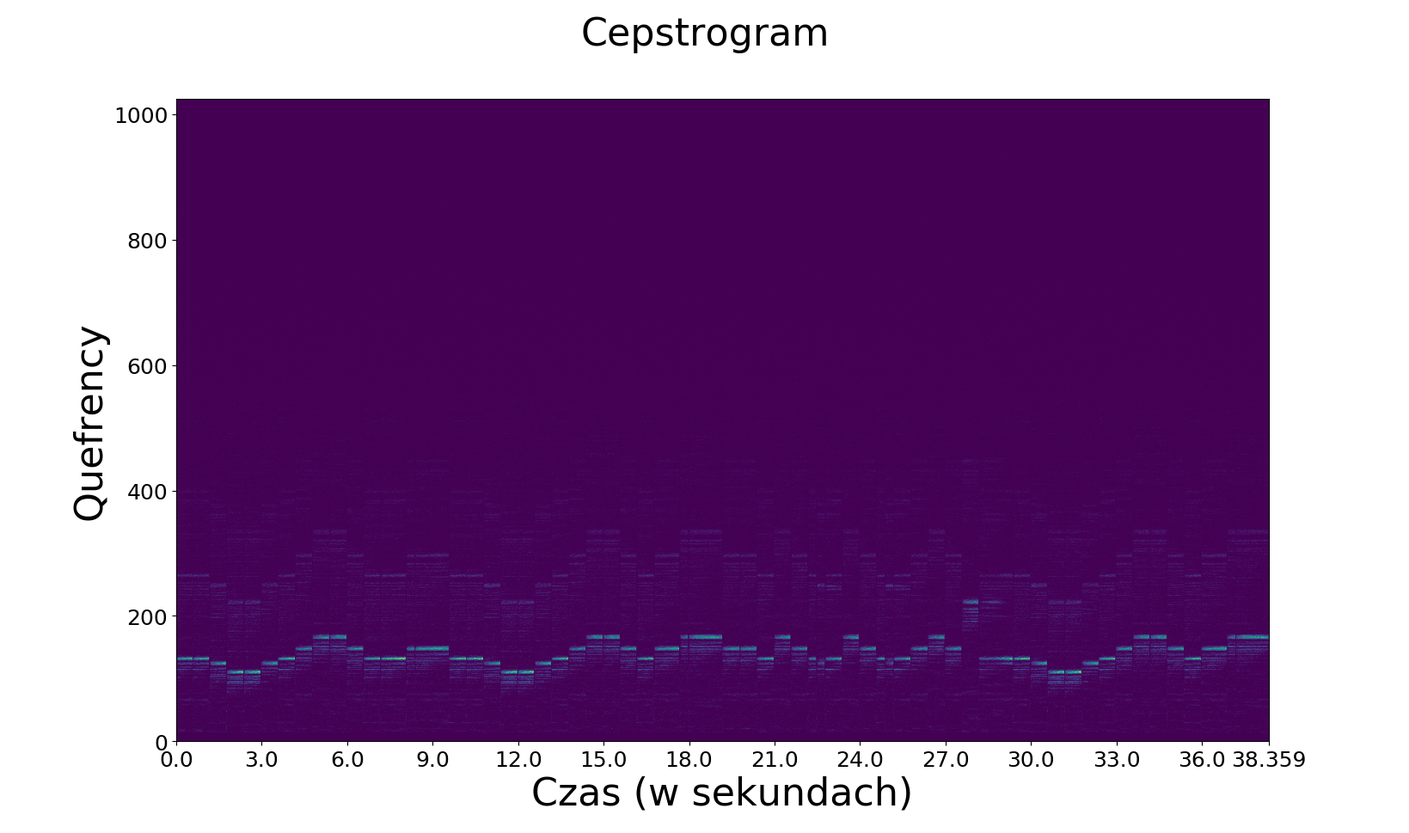
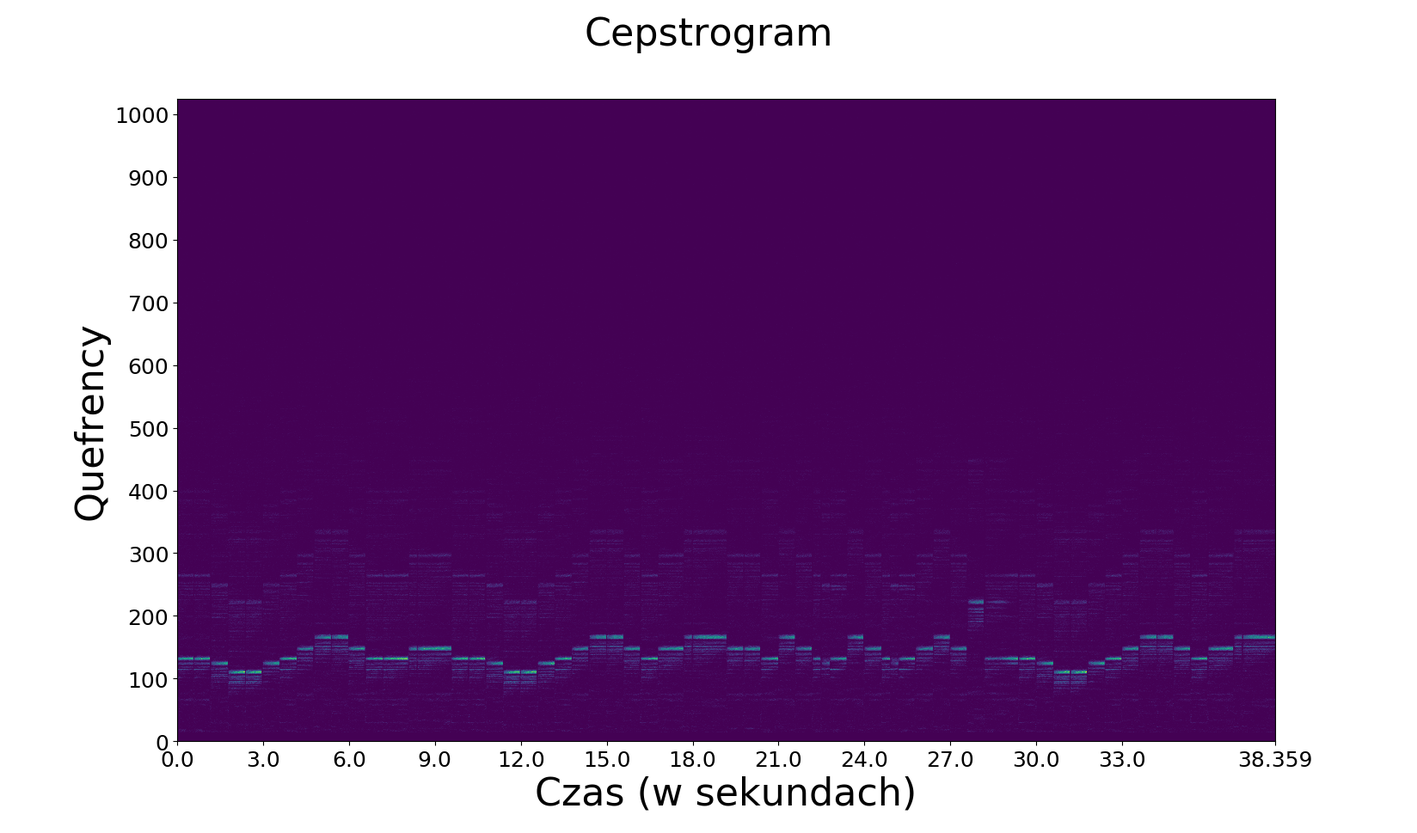
Thesis cd + wyslana wiadomosc

diff --git a/Thesis/Magister_Thesis.tex b/Thesis/Magister_Thesis.tex
@@ -181,7 +181,7 @@ Najnowsze dokonania w dziedzinie automatycznej transkrypcji muzycznej są jednak
 
 Bez automatyzacji procesu, transkrypcja wykonywana manualnie zakładała profesjonalną wiedzę słuchacza, który iteracyjnie odsłuchując dany utwór ustala grane instrumenty wraz z częstotliwością fundamentalną lub akordem, która jest na nich grany. Wymusza to osobie transkrybującej wyróżnienie poszczególnych granych dźwięków, wyodrębniając jego długość, wysokość i korelacje do pozostałych granych dźwięków. Ludzkie ucho postrzega dźwięk relatywnie, co powoduje, że dużo łatwiej jest porównywać dźwięki niż je analizować w odizolowaniu, toteż referencyjne dźwięki, jak na przykład skala zagrana na pianinie, są często wykorzystywane przy tradycyjnym przebiegu procesu transkrypcji. W rezultacie zadanie to jest skomplikowane i wymaga dużego nakładu czasowego nawet dla profesjonalistów z doświadczeniem w dziedzinie muzykologii.
 
-W tym rozdziale przedstawię wciąż nierozwiązany problem automatycznej transkrypcji muzycznej, nakreślając najbardziej problematyczne rejony w oparciu o przykłady już istniejących rozwiązań.  Celem tych rozważań jest przybliżenie ogólnej koncepcji transkrypcji muzycznej, teorii na jakiej się opierają, \todo[inline]{Move somewhere}oraz próba zoptymalizowania części z nich poprzez zrównoleglenie obliczeń wykorzystując kartę graficzną.
+W tym rozdziale przedstawiony jest wciąż nierozwiązany problem automatycznej transkrypcji muzycznej, nakreślając najbardziej problematyczne rejony w oparciu o przykłady już istniejących rozwiązań.  Celem tych rozważań było przybliżenie ogólnej koncepcji transkrypcji muzycznej, teorii na jakiej się opierają, \todo[inline]{Move somewhere}oraz próba zoptymalizowania części z nich poprzez zrównoleglenie obliczeń wykorzystując kartę graficzną.
 
 \subsection{Jak "działa" muzyka}\label{sec:JakDzialaMuzyka}
 Przed dalszymi rozważaniami istotne jest zdefiniowanie terminologii związanej z muzyką jak i samej muzyki. Muzyka, równoznaczne z utworem muzycznym, jest uporządkowanym zbiory dźwięków o odpowiednich wysokościach i głośnościach z zachowaniem odpowiedniego rytmu. Wysokości tych dźwięków są proporcjonalne do częstotliwości wibracji, które zostały wytworzone przez dany instrument lub głos ludzki. Głośność określana jest przy pomocy amplitudy zadanego sygnału akustycznego. Starając się rozłożyć skomplikowaną strukturę utworów muzycznych na rozdzielne części, można wyróżnić cztery rozdzielne składowe, których zbadanie i zinterpretowanie jest przedmiotem algorytmów transkrypcji muzycznej. Są to:
@@ -253,7 +253,7 @@ Istnieją oczywiście instrumenty, które generują dźwięki o dowolnych F0, a 
 
 Ciekawą własnością niemalże wszystkich kultur muzycznych jest podobieństwo do siebie odpowiednich nut w oktawach. Nuty A2, A3 i A4 dla przykładu mają taką samą rolę w kontekście harmoniczności. Brzmią one bardzo podobnie do siebie, jedynie różnią się wysokością. Ze względu na tą cechę, opisany wyżej system redukuje liczbę wszystkich istniejących dźwięków do jedynie 12 klas dźwięków, po 1 na każdą z nut w oktawie. Korzystając ze wzoru ~\ref{eq:midi_freq} dla wielokrotności liczby 440 można uzyskać tabelkę z częstotliwościami dźwięków \textbf{A} w kolejnych oktawach, jak w tabeli \ref{tab:FqMidi}.
 
-\begin{table}[H]
+\begin{table}[ht]
   \begin{center}
     \begin{tabular}{ |c|c|c| } 
     \hline
@@ -325,7 +325,7 @@ Neuropsychologiczne badania, które były prowadzone w kontekście przetwarzania
 \subsubsection{Reprezentacja danych średniego poziomu}
 Koncepcja pojęcia \textit{Reprezentacja danych średniego poziomu} pozwala na utworzenie pewnego rodzaju pośrednika pomiędzy akustyczną reprezentacją dźwięku, a tą formalnie zapisaną. Sygnał muzyczny w czystej postaci jest mało informatywny, nie możemy z niego wyczytać chociażby poszczególnych nut utworu, tak jak jest to widoczne w zapisie nutowym. W książce \cite{Transcription:Zatorre:AuditoryCortex} autorzy sugerują, że celem użycia tego narzędzia jest stworzenie pośredniego stopnia abstrakcji, które będzie działało jak interfejs do analizy audio i do ułatwienia konstrukcji systemów transkrypcji.
 
-Najczęściej używaną reprezentacją danych na średnim poziomie przy analizie sygnału akustycznego jest szybka transformacja Fouriera (dokładniej opisana w sekcji \ref{sec:FFT}) sygnału w kolejnych oknach czasowych. W ogólności wszystkie funkcje pozwalające na przeniesienie sygnału z domeny czasowej na domenę częstotliwości są niezwykle istotne w analizie dźwięku. W tej pracy zostaną przedstawione algorytmy bazujące na tej właśnie reprezentacji danych (jak np. Autokorelacja czy metody operujące na cepstrum). \todo[inline]{reference sections}
+Najczęściej używaną reprezentacją danych na średnim poziomie przy analizie sygnału akustycznego jest szybka transformacja Fouriera (dokładniej opisana w sekcji \ref{sec:FFT}) sygnału w kolejnych oknach czasowych. W ogólności wszystkie funkcje pozwalające na przeniesienie sygnału z domeny czasowej na domenę częstotliwości są niezwykle istotne w analizie dźwięku. W tej pracy znajduje się opis algorytmów operujących na tej właśnie reprezentacji danych (analiza tej reprezentacji opisana jest w sekcji \ref{sec:f0:tfr}, algorytmy jak ACLOS opisany w sekcji \ref{sec:f0:aclos} czy cepstrum opisane w \ref{sec:f0:ceps} działają jedynie na widmie sygnału).
 
 W książce \cite{Transcription:Zatorre:AuditoryCortex} autorzy uważają, że powszechnym wyborem dla reprezentacji danych na średnim poziomie jest bazowanie na \textit{ścieżkach sinusoidalnych}. W tym przypadku sygnał akustyczny jest przedstawiony jako suma sinusoid o zmiennych w czasie częstotliwościach i amplitudach. Korzyścią, jaka płynie z tej reprezentacji jest łatwe przedstawienie instrumentów tonalnych. Problem z tym podejściem zaczyna się przy wielotonalnych sygnałach, gdzie dźwięki nakładają się na siebie w domenie częstotliwości i czasu. 
 
@@ -484,7 +484,7 @@ Przy modelowaniu systemu transkrypcji często trzeba podjąć trudną decyzję, 
 \subsection{Estymacja składowej fundamentalnej F0}\label{sec:f0}
 Ten rozdział skupia się na opisaniu metod estymacji składowej fundamentalnej w sygnale akustycznym. Jest to jeden z kroków wymaganych do pełnej transkrypcji utworu muzycznego, a przez wielu badających ten teren nauki uważany za najważniejszy  \cite[2-4]{Transcription:Klapuri:ChallengesAndFuture}. Wysokość dźwięku jest niezwykle istotną informacją z punktu widzenia muzyka, a sposób zagrania determinowany jest właśnie przez F0. Nawiązując do informacji opisanych w rozdziale \ref{sec:JakDzialaMuzyka} aby poprawnie wykryć F0 należy mieć na uwadzę bardzo dużo czynników. 
 
-Dalsze rozważania będą przebiegać z założeniem, że przetwarzane sygnały są z podzbioru muzyki o standardach kompozycji zachodniej, lecz bez wyszczególnionego gatunku muzycznego. Nie będziemy również skupiali się na wykryciu tak zwanych dźwięków o niezależnej wysokości, do których zaliczają się elementy perkusyjne. Ważnym założeniem, które będę stosować w tym rozdziale, jest analiza jedynie sygnałów monofonicznych. W odróżnieniu do krzywych reprezentujących muzykę polifoniczną, w analizowanych utworach będzie grany tylko jeden dźwięk na pojedyńczym instrumencie, bez równoległych dźwięków. Algorytmy analizujące muzykę wielotonową są opisane w rozdziale \ref{sec:MultiPitch}. Jest to bardzo duże ułatwienie, ponieważ konkurujące sygnały dźwiękowe nakładają się na siebie, zmuszając algorytm analizujący do rozróżnienia i odseparowania ich przed faktyczną analizą F0. 
+Dalsze rozważania będą przebiegać z założeniem, że przetwarzane sygnały są z podzbioru muzyki o standardach kompozycji zachodniej, lecz bez wyszczególnionego gatunku muzycznego. Nie będziemy również skupiali się na wykryciu tak zwanych dźwięków o niezależnej wysokości, do których zaliczają się elementy perkusyjne. Ważnym założeniem, które jest stosowane w tym rozdziale, jest analiza jedynie sygnałów monofonicznych. W odróżnieniu do krzywych reprezentujących muzykę polifoniczną, w analizowanych utworach będzie grany tylko jeden dźwięk na pojedyńczym instrumencie, bez równoległych dźwięków. Algorytmy analizujące muzykę wielotonową są opisane w rozdziale \ref{sec:MultiPitch}. Jest to bardzo duże ułatwienie, ponieważ konkurujące sygnały dźwiękowe nakładają się na siebie, zmuszając algorytm analizujący do rozróżnienia i odseparowania ich przed faktyczną analizą F0. 
 
 \subsubsection{Funkcja Autokorelacji}\label{sec:f0:ac}
 Domena czasu jest najbardziej naturalną postacią sygnału dźwiękowego, ponieważ w takiej właśnie postaci jest odbierane przez ludzkie ucho - jako ciśnienie akustyczne zmienne w czasie. Wiele z pierwszych badań jakie prowadzono w kontekście transkrypcji sygnału fonicznego wykorzystywało tą postać sygnału, między innymi w \cite{Transcription:Gold:ComputerProgramForPitchExtraction}. Algorytm ten polegał na znajdywaniu wzorców w krzywej sygnału. Regularności które powtarzały się okresowo co $T$ były analizowane jako kandydaci do bycia F0. Jak analiza czystego binarnego sygnału i wyliczenia na nim nie są częstą praktyką, tak podejście do znajdywania wzorców i regularności jest obecna w wielu nowoczesnych algorytmach. Najbardziej dosłowne odwzorowanie tej idei można znaleźć w metodologiach opartych na korelacji w celu znalezienia wysokości dźwięku.
@@ -622,7 +622,7 @@ gdzie  $X(f)$ oznacza TF. Zgodnie ze wzorem \ref{eq:ceps:continous} filtrowanie 
   \begin{subfigure}{.49\textwidth}
     \centering
     \includegraphics[width=1.\linewidth]{images/Cepstrum/cepstrogram_cropped.png}
-    \caption{Cepstrum}
+    \caption{Cepstrogram}
   \end{subfigure}
   \begin{subfigure}{.5\textwidth}
     \centering
@@ -638,15 +638,17 @@ Postać cepstralną sygnału akustycznego można bezpośrednio wykorzystać do z
 \subsubsection{ACLOS}\label{sec:f0:aclos}
 Badanie cykliczności spektrum, do którego jednym z narzędzi jest cepstrum opisane w \ref{sec:f0:ceps}, można wykorzystać również narzędzia autokorelacji. Omówiona wcześniej metoda badająca cykliczność na cyfrowej fali akustycznej poprzez wyliczanie autokorelacji (\ref{sec:f0:ac}) użyta w domenie częstotliwości została opisana w 1996 roku w \cite{Transcription:Kunieda:Aclos} pod nazwą \textbf{ACLOS}. Oba te algorytmy polegają na zasadzie cykliczności fal akustycznych i harmonicznych F0, próbując wykryć dokłądny odstęp pomiędzy cyklami.
 
-Nazwa algorytmu ACLOS jest skrótem od \textit{AutoCorrelation of LOg Spectrum}, co oznacza autokorelację na logarytmie widma. Motywacją do stworzenia ACLOS było odkrycie takiego algorytmu, który wykorzysta zalety cepstrum i jednocześnie będzie bardziej odporne na szumy w badanym sygnale. Dodatkowo, autorzy ACLOS przytaczają prace naukową \cite{Transcription:Lahat:SpectralAutocorrelationNoiseCorrupted}, która również wykorzystuje autokorelacje na widmie sygnału akustycznego, z ta różnicą, że nie stosuje się na nim logarytmowania, a proces autokorelacji determinowany jest procedurą decyzyjną w zależności od pików na poszczególnych pasmach sygnału, czo czyni ten algorytm dużo bardziej skomplikowany niż ACLOS.
-
-\begin{figure}[t]
+\begin{figure}[H]
   \begin{center}
     \includegraphics[scale=0.29]{images/ACLOS/ACLOS_flow.jpg}
     \caption{Schemat działania algorytmu ACLOS do wykrywania wysokości dźwięku. Schemat z \cite[233]{Transcription:Kunieda:Aclos}.}
     \label{fig:aclos:flow}
   \end{center}
 \end{figure}
+
+Nazwa algorytmu ACLOS jest skrótem od \textit{AutoCorrelation of LOg Spectrum}, co oznacza autokorelację na logarytmie widma. Motywacją do stworzenia ACLOS było odkrycie takiego algorytmu, który wykorzysta zalety cepstrum i jednocześnie będzie bardziej odporne na szumy w badanym sygnale. Dodatkowo, autorzy ACLOS przytaczają prace naukową \cite{Transcription:Lahat:SpectralAutocorrelationNoiseCorrupted}, która również wykorzystuje autokorelacje na widmie sygnału akustycznego, z ta różnicą, że nie stosuje się na nim logarytmowania, a proces autokorelacji determinowany jest procedurą decyzyjną w zależności od pików na poszczególnych pasmach sygnału, czo czyni ten algorytm dużo bardziej skomplikowany niż ACLOS.
+
+
 \begin{figure}[H]
   \begin{center}
     \includegraphics[scale=0.49]{images/ACLOS/data_lifter_cropped.png}
@@ -730,28 +732,98 @@ Funkcja autokorelacji w domenie czasu/mocy, jak opisana w sekcji \ref{sec:f0:ac}
 
 Przyglądając się z bliska pojedyńczemu wynikowi funkcji autokorelacji jak widać na rysunku \ref{fig:multi:ac:em} można zauważyć, że piki znajdują się w nieregularnych odstępach a sama wartość funkcji korelacji nie jest bliska maksymalnej wartości. Na omawianej ilustracji grany jest akord E-mol 3, czyli dokładnie dźwięki E3, G3 i B3, którym odpowiadają częstotliwości F0 odpowiednio 164.81, 196.00 i 246.94 Hz. Na badanym oknie korelacji najwyższym pik jest w miejscu o przesunięciu 266, czyli najsilniejsza hipotezą co do F0 byłaby częstotliwość 165,8 Hz (zgodnie ze wzorem \ref{eq:AC:hz} w badanym przypadku częstotliwość wyliczana jest poprzez $44100 / 266 \approx 165,8$), co jest wartością najbliższą do częstotliwości dźwięku E3. Najniższa nuta w akordzie nazywana jest bazową, i to ona jest najbardziej charakterystyczna dla ludzkiego ucha. Z racji tego, że ma ona najniższą częstotliwość, ma też najwyższą amplitudę (z reguły im wyższa częstotliwość tym niższa amplituda), co daje wyższą szanse na znalezienie tych nut w dźwięku przy wykorzystaniu funkcji autokorelacji w domenie czasu. Drugi pik pod względem rezultatu autokorelacji jest dla przesunięcia równego 534, co odpowiada częstotliwości równej 52,6 Hz. Ta częstotliwość nie jest częścią granego dźwięku, nie jest również żadna z jej wielokrotności.
 
-Algorytmy operujące na dziedzinie częstotliwości mają dużo większe powodzenie w wykrywaniu równoległych F0, jednak algorytmika stojąca za tymi metodami jest dużo bardziej skomplikowana niż w przypadku monofonicznych utworów ze względu na dużo bardziej skomplikowane widma. Spektrogram sygnałów polifonicznych nie jest tak wyraźnym wskaźnikiem jak był w przypadku monofonicznym. Częstotliwości harmonicznych mogą się na siebie nakładać, zniekształcając ich cykliczność jak i modulując wyraźnosć formantów.
-
 \begin{figure}[ht]
   \begin{center}
-    \includegraphics[scale=0.38]{images/Spectrogram/spectrogram_multi_2048_512.png}
-    \caption{Spektrogram nagrania Preludium op. 28 nr. 4 Fryderyka Chopina zagranym na pianinie w Em. Użyto okno Hanna o długości 2048 sampli z odstępami długości 512 sampli.}
+    \includegraphics[scale=0.38]{images/Spectrogram/spectrogram_multi_2048_512_cropped.png}
+    \caption{Spektrogram nagrania Preludium op. 28 nr. 4 Fryderyka Chopina zagranym na pianinie w Em. Użyto okno Hanna o długości 2048 sampli, marginesem zer o długości 2048 i z odstępami długości 512 sampli.}
     \label{fig:multi:spectrogram}
   \end{center}
 \end{figure}
 
-\begin{figure}[ht]
+Algorytmy operujące na dziedzinie częstotliwości mają dużo większe powodzenie w wykrywaniu równoległych F0, jednak algorytmika stojąca za tymi metodami jest dużo bardziej skomplikowana niż w przypadku monofonicznych utworów ze względu na dużo bardziej skomplikowane widma. Spektrogram sygnałów polifonicznych nie jest tak wyraźnym wskaźnikiem jak był w przypadku monofonicznym. Częstotliwości harmonicznych mogą się na siebie nakładać, zniekształcając ich cykliczność jak i modulując wyraźność formantów.
+
+
+Widma poszczególnych dźwięków nakładają się na siebie, wzmacniając pewne częstotliwości, a inne wytłumiając. Przykład takiego zjawiska można zaobserwować na rysunku \ref{fig:multi:spectra:partials}. Nagranie akordu Em3 nagranego na pianinie widać linią ciągłą, natomiast pojedyńczo nagrane dźwięki E3, G3 oraz B3 są przedstawione jako osobne krzywe. Widać na tym wykresie, że wynikowa krzywa Em żadko nakłada się dokłądnie z linią pojedyńczej nuty, a jest raczej nową strukturą z częścią cech wspólnych.
+
+\begin{figure}[H]
   \begin{center}
-    \includegraphics[scale=0.325]{images/Em/spectral_component_em3_partials_2048_512.png}
-    \caption{Spektrogram nagrania Preludium op. 28 nr. 4 Fryderyka Chopina zagranym na pianinie w Em. Użyto okno Hanna o długości 2048 sampli z odstępami długości 512 sampli.}
-    \label{fig:multi:spectrogram}
+    \includegraphics[scale=0.325]{images/Em/spectral_component_em3_partials_2048_512_cropped.png}
+    \caption{Spektralne komponenty nagrania akordu Em zagranego na pianinie oraz trzech poszczególnych nut zagranych na tym samym pianinie nagranych osobno. Użyto okna Hanna o długości 2048 sampli i marginesu zer długości 2048.}
+    \label{fig:multi:spectra:partials}
   \end{center}
 \end{figure}
 
+\begin{figure}[h]
+  \begin{center}
+    \includegraphics[scale=0.27]{images/Em/spectrogram_Em_2048_512_cropped.png}
+    \caption{Spektrogram nagrania akordu Em zagranego na pianinie. Użyto okna Hanna o długości 2048 sampli z marginesem zer długości 2048 i marginesu zer długości 2048.}
+    \label{fig:multi:em:spectrogram}
+  \end{center}
+\end{figure}
 
-\subsubsection{Harmoniczność}
+Metody cepstrum i ACLOS opisane w sekcjach \ref{sec:f0:ceps} i \ref{sec:f0:aclos} są nieefektywne z powodu nakładających się na siebie dźwięków w spektrum. Echo, które wykrywa cepstrum, jest pomieszane pomiędzy dźwiękami, co mocno komplikuje wnioskowanie z tej reprezentacji. ACLOS natomiast traci pewność wyniku z tych samych powodów co funkcja autokorelacji opisana wyżej w tej sekcji. Można zaobserwować na wykresach \ref{fig:multi:ceps:estimation} i \ref{fig:multi:aclos:estimation} że oba te algorytmy wykryły F0 w okolicach dźwięku G (ACLOS około 190 Hz, co jest najbliższe dźwiękowi G3 obecnemu w sygnale, a Cepstrum około 400, co jest wielokrotnością G3). Przyglądając się rozbitemu na poszczególne spektra wykresowi \ref{fig:multi:spectra:partials} można wywnioskować, że nuta ta ma najwięcej wspólnych harmonicznych z pozostałymi, więc właśnie ona wydaje się być najsilniejsza w widmie.
 
+\begin{figure}[h]
+  \begin{subfigure}{0.5\textwidth}
+    \includegraphics[width=1.\linewidth]{images/Em/cepstrogram_cropped.png}
+    \caption{Cepstrogram}
+  \end{subfigure}
+  \begin{subfigure}{0.49\textwidth}
+    \includegraphics[width=1.\linewidth]{images/Em/cepstra_estimation_cropped.png}
+    \caption{Estymacja F0}
+    \label{fig:multi:ceps:estimation}
+  \end{subfigure}
+  \caption{Wynik cepstrum na nagraniu akordu Em zagranym na pianinie. Użyto okno Hanna o długości 2048 sampli z marginesem zer długości 2048 i odstępami długości 2048 sampli.}
+  \label{fig:multi:ceps}
+\end{figure}
 
+\begin{figure}[h]
+  \begin{subfigure}{0.5\textwidth}
+    \includegraphics[width=1.\linewidth]{images/Em/Aclos_corelogram_cropped.png}
+    \caption{Korelogram}
+  \end{subfigure}
+  \begin{subfigure}{0.49\textwidth}
+    \includegraphics[width=1.\linewidth]{images/Em/Aclos_estymacja_cropped.png}
+    \caption{Estymacja F0}
+    \label{fig:multi:aclos:estimation}
+  \end{subfigure}
+  \caption{Wynik ACLOS na nagraniu akordu Em zagranym na pianinie. Użyto okno Hanna o długości 2048 sampli z marginesem zer długości 2048 i odstępami długości 2048 sampli.}
+  \label{fig:multi:aclos}
+\end{figure}
+
+\subsubsection{Metody oparte o modele generatywne}
+W książce \cite[203-227]{Transcription:Anssi:SignalProcessingMethods} autorzy kategoryzują metodyki przeznaczone do transkrypcji częstotliwości fundamentalnych ze względu na charakter algorytmu jaki jest użyty i są jednocześnie oparte o generatywny model fali akustycznych. Algorytmy te czerpią z modeli bayesowskich. Rozróżnili oni metody oparte o zaszumione modele sum sinusoidów, które nie brały pod uwagę zależności pomiędzy harmonicznymi (przykładem takiego podejścia jest analiza mowy opisana w \cite[744-745]{Transcription:McAulay:SinusoidalRepresentationF0}), oraz grupy modeli off-line i on-line.
+
+Podejścia off-line charakteryzują się globalnym mierzeniem parametrów estymacji. Operują one analizując całą falę dźwiękową. Założeniem tych algorytmów jest segmentacja danych w taki sposób, że każdy z segmentów ma niezmienne wysokości granych dźwięków. Ograniczenie to wymusza na systemie transkrypcji użycia jakiejś formy wykrywania początków dźwięków. Algorytmy te bazują również na pojęciu prawdopodobieństwa, które to opisane jest matematycznym modelem wraz z gęstością. Algorytmy w tej grupie często działają według pewnych założeń co do barwy dźwięków (instrumentów czy głosu) występujących w sygnale.
+
+Metodologie on-line są znacznie większą grupą w sensie ilości i zróżnicowaniu algorytmów. Dla każdego kroku procesu $n$ badana jest tylko część sygnału (okno) $x(n)$. Wyniki ze wcześniejszych okien są również brane pod uwagę, jako rozkład prawdopodobieństwa przejścia. Ważną różnicą pomiędzy podejściami on-line i off-line jest to, że nie potrzebują one dodatkowego mechanizmu wykrywające początki dźwięków. Autorzy w \cite[203-227]{Transcription:Anssi:SignalProcessingMethods} rozróżnili modele on-line również po tym, czy tworzony model bezpośrednio miał determinować kształt fali, czy też być modelem pośrednim w bardziej skomplikowanym systemie. Dokładniej, opisują cztery podejścia stosowane dla ogólnego przetwarzania audio, z czego wszystkie wykorzystują cechę równomiernego rozłożenia harmonicznych akustycznej fali dźwiękowej. W tej sekcji przybliżona jest metoda Yeh'a i Röbel'a dotycząca automatycznej transkrypcji polifonicznego sygnału fonicznego \cite{Transcription:Yeh:JointEvaluationF0} wraz z metodologiami opartymi na harmoniczności i gładkości widma opisanymi w \cite{Transcription:Klapuri:MultipleFundamentalFrequencyEstimation} i \cite{Transcription:Pertus:Inharmonicity}.
+
+\paragraph{Gładkość spektrum}
+W swojej pracy \cite[1]{Transcription:Yeh:JointEvaluationF0} Yeh i Röbel zakładają, że polifoniczny, quasi-harmoniczny sygnał można przedstawić za pomocą poniższego wzoru:
+\begin{equation}\label{eq:Yeh:signal}
+y[n] = \{ \sum_{m=1}^{M}\sum_{h_m = 1}^{H_m}a_m,h_m[n]cos((1 + \delta_{m,h_m})h_m\omega_m n + \phi_m [n])\} + v[n],
+\end{equation}
+Gdzie $n$ jest indeksem czasu, $M$ jest liczbą źródeł dźwięków, $H_m$ jest liczbą części dla $m$-tego źródła, $\omega_m$ reprezentuje F0 źródła $m$ a $\phi_m[n]$ jest fazą. Tak zarysowany sygnał jest w dalszej kolejności analizowany w oparciu o poszczególne komponenty. Warto zwrócić uwagę, że zakłada się szum o na tyle małej amplitudzie, że możliwym jest znalezienie poszczególnych sinusoidów składowych.
+
+Innym istotnym wzorem opisującym sygnał źródłowy jest jego reprezentacja w domenie częstotliwości. W swojej pracy Klapuri \cite[806]{Transcription:Klapuri:MultipleFundamentalFrequencyEstimation} zdefiniowała kształt spektrum takiego sygnału jako funkcję częstotliwości:
+\begin{equation}\label{eq:Klapuri:spectrum}
+X(k) = H(k)S(k) + N(k)
+\end{equation}
+gdzie $X(k)$ jest dyskretnym spektrum mocy akustycznego sygnału źródłowego, $S(k)$ jest jest spektrum mocy wibrującego systemu, którego częstotliwość fundamentalna jest mierzona, $H(k)$ jest charakterystyką środowiska w którym dźwięk został wygenerowany wraz z fizycznymi charakterystykami instrumentu, który filtruje źródło dźwięku i wszystkimi innymi czynnikami wpływający na modulacje nagrywanego sygnału, a $N(k)$ jest spektrum mocy szumu addytywnego. Proces eliminacji $H(k)$ nosi nazwę \textit{wstępne wybielanie}.
+
+\cite{Transcription:Klapuri:MultipitchEstimationAndSeparation}
+
+\subsubsection{Onsets and Frames}
+\begin{figure}[H]
+  \begin{center}
+    \includegraphics[scale=0.8]{images/architekturaSieciOnesetsFrames.png}
+    \caption{z https://magenta.tensorflow.org/onsets-frames, diagram przedstawiający architekture sieci Onesets and Frames.}
+  \end{center}
+\end{figure}
+\cite{DBLP:journals/corr/LuongPM15}
+\todo[inline]{Czy tłumaczyć diagram?}
+\todo[inline]{Do poprawy wykresy funkcji okna}
+\todo[inline]{Czy mogę użyć książki której nawet nie mogę znależć on-line tylko jako referencja w innej pozycji? Który ISBN powinienem podawać, ISBN-10 czy ISBN-13? Czy istnieje jakiś stylesheet którego powinienem się trzymać? Kiedy boldować wyrazy a kiedy pisac kursywą? Wykres analizy częstotliwościowej z innej książki przyciołem o jeden wykres żeby nie zajmował tyle miejsca, czy tak można? Jak opisać implementacje i jak ma wyglądać sekcja "dodatków"?}
 \newpage
 % \section{Klasyfikacja muzyki}
 % \cite{DBLP:journals/corr/abs-1708-03535}\cite{DBLP:journals/corr/XiongDHSSSYZ16a}
@@ -777,14 +849,6 @@ Algorytmy operujące na dziedzinie częstotliwości mają dużo większe powodze
 % \subsection{Funkcje pomocnicze}
 % \newpage
 % \subsection{Transpilacja}
-% \begin{figure}[H]
-%   \begin{center}
-%     \includegraphics[scale=0.8]{images/architekturaSieciOnesetsFrames.png}
-%     \caption{z https://magenta.tensorflow.org/onsets-frames, diagram przedstawiający architekture sieci Onesets and Frames.}
-%   \end{center}
-% \end{figure}
-% \cite{DBLP:journals/corr/LuongPM15}
-% \newpage
 
 % \subsection{Składowanie danych}
 % \newpage
@@ -798,7 +862,8 @@ Algorytmy operujące na dziedzinie częstotliwości mają dużo większe powodze
 \subsubsection{Autokorelacja}\label{sec:impl:alg:ac}
 \subsubsection{Cepstrum}\label{sec:impl:alg:ceps}
 \subsubsection{ACLOS}\label{sec:impl:alg:aclos}
-
+\subsubsection{Gaussion Smoothness}\label{sec:impl:alg:specSmoothnes}
+\subsubsection{Onsets And Frames}
 \subsection{Interfejs GUI}
 \cite{reactWDzialaniu}\cite{tsDocumentation}
 \newpage

diff --git a/Application/server/transcription/cepstrumF0Analysis.py b/Application/server/transcription/cepstrumF0Analysis.py
@@ -74,13 +74,13 @@ if __name__ == "__main__":
     frameWidth = 2048
     spacing = 512
     filePath = path.dirname(path.abspath(__file__))
-    #filePath = path.join(filePath, '../test_sounds/ode_to_joy_(9th_symphony)/ode_to_joy_(9th_symphony).wav')
+    filePath = path.join(filePath, '../test_sounds/ode_to_joy_(9th_symphony)/ode_to_joy_(9th_symphony).wav')
     #file_path = '../test_sounds/Sine_sequence.wav'
     #filePath = path.join(filePath, '../test_sounds/chopin-nocturne.wav')
     #filePath = path.join(filePath, '../test_sounds/Chopin_prelude28no.4inEm/chopin_prelude_28_4.wav')
-    filePathMain = path.join(filePath, '../test_sounds/EmPiano/Em.wav')
+    #filePathMain = path.join(filePath, '../test_sounds/EmPiano/Em.wav')
 
-    sampleRate, data = loadNormalizedSoundFIle(filePathMain)
+    sampleRate, data = loadNormalizedSoundFIle(filePath)
     sine_data = create_sine(220, sampleRate, 5)
     sine_data += (create_sine(440, sampleRate, 5) * 0.2)
     sine_data += (create_sine(110, sampleRate, 5) * 0.3)
@@ -88,42 +88,42 @@ if __name__ == "__main__":
     #for i in range(0, 10):
     cepstra, spectra, bestFq = cepstrumF0Analysis(data, sampleRate, frameWidth, frameWidth, spacing)
     #---------------------------
-    filePath1 = path.join(filePath, '../test_sounds/EmPiano/E3.wav')
-    sampleRate, data = loadNormalizedSoundFIle(filePath1)
+    # filePath1 = path.join(filePath, '../test_sounds/EmPiano/E3.wav')
+    # sampleRate, data = loadNormalizedSoundFIle(filePath1)
 
-    cepstra, spectra1, bestFq = cepstrumF0Analysis(data, sampleRate, frameWidth, frameWidth, spacing)
-    filePath2 = path.join(filePath, '../test_sounds/EmPiano/G3.wav')
-    sampleRate, data = loadNormalizedSoundFIle(filePath2)
+    # cepstra, spectra1, bestFq = cepstrumF0Analysis(data, sampleRate, frameWidth, frameWidth, spacing)
+    # filePath2 = path.join(filePath, '../test_sounds/EmPiano/G3.wav')
+    # sampleRate, data = loadNormalizedSoundFIle(filePath2)
 
-    cepstra, spectra2, bestFq = cepstrumF0Analysis(data, sampleRate, frameWidth, frameWidth, spacing)
-    filePath3 = path.join(filePath, '../test_sounds/EmPiano/B3.wav')
-    sampleRate, data = loadNormalizedSoundFIle(filePath3)
-    cepstra, spectra3, bestFq = cepstrumF0Analysis(data, sampleRate, frameWidth, frameWidth, spacing)
+    # cepstra, spectra2, bestFq = cepstrumF0Analysis(data, sampleRate, frameWidth, frameWidth, spacing)
+    # filePath3 = path.join(filePath, '../test_sounds/EmPiano/B3.wav')
+    # sampleRate, data = loadNormalizedSoundFIle(filePath3)
+    # cepstra, spectra3, bestFq = cepstrumF0Analysis(data, sampleRate, frameWidth, frameWidth, spacing)
 
-    #plot_pitches(bestFq, spacing, sampleRate, language='pl')
-    plot_spectrogram(spectra, spacing, sampleRate, language='pl', showColorbar=False)
-    plot_spectrum_line_component_only(spectra[5], sampleRate, language="pl")
-    plot_spectrum_line_components(spectra[5],spectra1[5],spectra2[5],spectra3[5], sampleRate, language="pl")
-    plt.show()
-    #plot_cepstrogram(cepstra, spacing, sampleRate, language='pl', showColorbar=False)
+    plot_pitches(bestFq, spacing, sampleRate, language='pl')
+    # plot_spectrogram(spectra, spacing, sampleRate, language='pl', showColorbar=False)
+    # plot_spectrum_line_component_only(spectra[5], sampleRate, language="pl")
+    # plot_spectrum_line_components(spectra[5],spectra1[5],spectra2[5],spectra3[5], sampleRate, language="pl")
+    # plt.show()
+    plot_cepstrogram(cepstra, spacing, sampleRate, language='pl', showColorbar=False)
 
     #GPU
-    #pycuda.driver.init() # pylint: disable=no-member
+    pycuda.driver.init() # pylint: disable=no-member
     # replace 0 with your device number. In this case, 0 is appropriate
-    # dev = pycuda.driver.Device(0) # pylint: disable=no-member
-    # ctx = dev.make_context()
-    # api = cuda_api()
-    # thr = api.Thread.create()
-    # compiledCepstrum = None
+    dev = pycuda.driver.Device(0) # pylint: disable=no-member
+    ctx = dev.make_context()
+    api = cuda_api()
+    thr = api.Thread.create()
+    compiledCepstrum = None
     # for i in range(0, 10000):
-    #     cepstra, compiledCepstrum = ceostrumF0AnalysisGpu(api, thr, np.array(data), sampleRate, frameWidth, frameWidth, spacing, compiledCepstrum)
+    cepstra, compiledCepstrum = ceostrumF0AnalysisGpu(api, thr, np.array(data), sampleRate, frameWidth, frameWidth, spacing, compiledCepstrum)
 
     # # plot_pitches(bestFq, spacing, sampleRate)
-    # plot_cepstrogram(cepstra[:][:1024], spacing, sampleRate, transpose=False)
+    plot_cepstrogram(cepstra, spacing, sampleRate, transpose=False, showColorbar=False)
     # plot_pitches(bestFq, spacing, sampleRate)
 
-    # ctx.pop()
-    # pycuda.tools.clear_context_caches()
+    ctx.pop()
+    pycuda.tools.clear_context_caches()
     # print_prof_data()
     # print_normalize_profile_data(10)
 

diff --git a/Application/server/transcription/aclos.py b/Application/server/transcription/aclos.py
@@ -81,9 +81,9 @@ if __name__ == "__main__":
     frameWidth = 2048
     spacing = 512
     filePath = path.dirname(path.abspath(__file__))
-    filePath = path.join(filePath, '../test_sounds/ode_to_joy_(9th_symphony)/ode_to_joy_(9th_symphony).wav')
+    #filePath = path.join(filePath, '../test_sounds/ode_to_joy_(9th_symphony)/ode_to_joy_(9th_symphony).wav')
     #filePath = path.join(filePath, '../test_sounds/Chopin_prelude28no.4inEm/chopin_prelude_28_4.wav')
-    #filePath = path.join(filePath, '../test_sounds/EmPiano/Em.wav')
+    filePath = path.join(filePath, '../test_sounds/EmPiano/Em.wav')
     #file_path = '../test_sounds/Sine_sequence.wav'
     #filePath = path.join(filePath, '../test_sounds/chopin-nocturne.wav')
 
@@ -96,8 +96,8 @@ if __name__ == "__main__":
     correlogram, interpolatedAutocorrelogram, bestLag, bestFq, spectra = aclos(data, sampleRate, frameWidth, spacing)
     plot_spectrogram(spectra, spacing, sampleRate, showColorbar=False, language="pl")
     
-    # plot_correlogram(correlogram, spacing, sampleRate, language='pl', showColorbar=False)
-    # plot_pitches(bestFq, spacing, sampleRate, language='pl')
+    plot_correlogram(correlogram, spacing, sampleRate, language='pl', showColorbar=False)
+    plot_pitches(bestFq, spacing, sampleRate, language='pl')
     # fig = plot_spectrum_line_component(spectra[5], sampleRate, data[:frameWidth])
     # plt.show()
     # plot_interpolated_correlation(interpolatedAutocorrelogram[10], correlogram[10], language='pl')

diff --git a/Application/server/utils/plots.py b/Application/server/utils/plots.py
@@ -244,8 +244,8 @@ def plot_cepstrogram(data, spacing, sampleRate, show=True, showColorbar=True, tr
   secLength = len(data)*spacing/sampleRate
   ax.set_xticks(getTimeTicks(spacing, sampleRate, secLength))
   ax.set_xticklabels(getTimeTickLabels(secLength), fontsize=ticksFontSize)
-  ax.set_yticks(np.arange(0, len(data), 200))
-  ax.set_yticklabels(np.arange(0, len(data), 200), fontsize=ticksFontSize)
+  ax.set_yticks(np.arange(0, len(H), 100))
+  ax.set_yticklabels(np.arange(0, len(H), 100), fontsize=ticksFontSize)
 
   ax.set_ylim([0, len(H)])
   ax.set_xlim([0, len(H.T) - 1])

diff --git a/Application/server/utils/cepstrumUtils.py b/Application/server/utils/cepstrumUtils.py
@@ -41,7 +41,7 @@ def lifterOnCeps(ceps, lifterType=LifterType.triangle, coefficient=2):
 
 def real_cepst_from_signal(data):
     spectrum = fft(data)
-    logSp = np.abs(spectrum)
+    logSp = np.log(np.abs(spectrum))
     ceps = np.abs(ifft(logSp)) ** 2
     return ceps, logSp, spectrum
 
